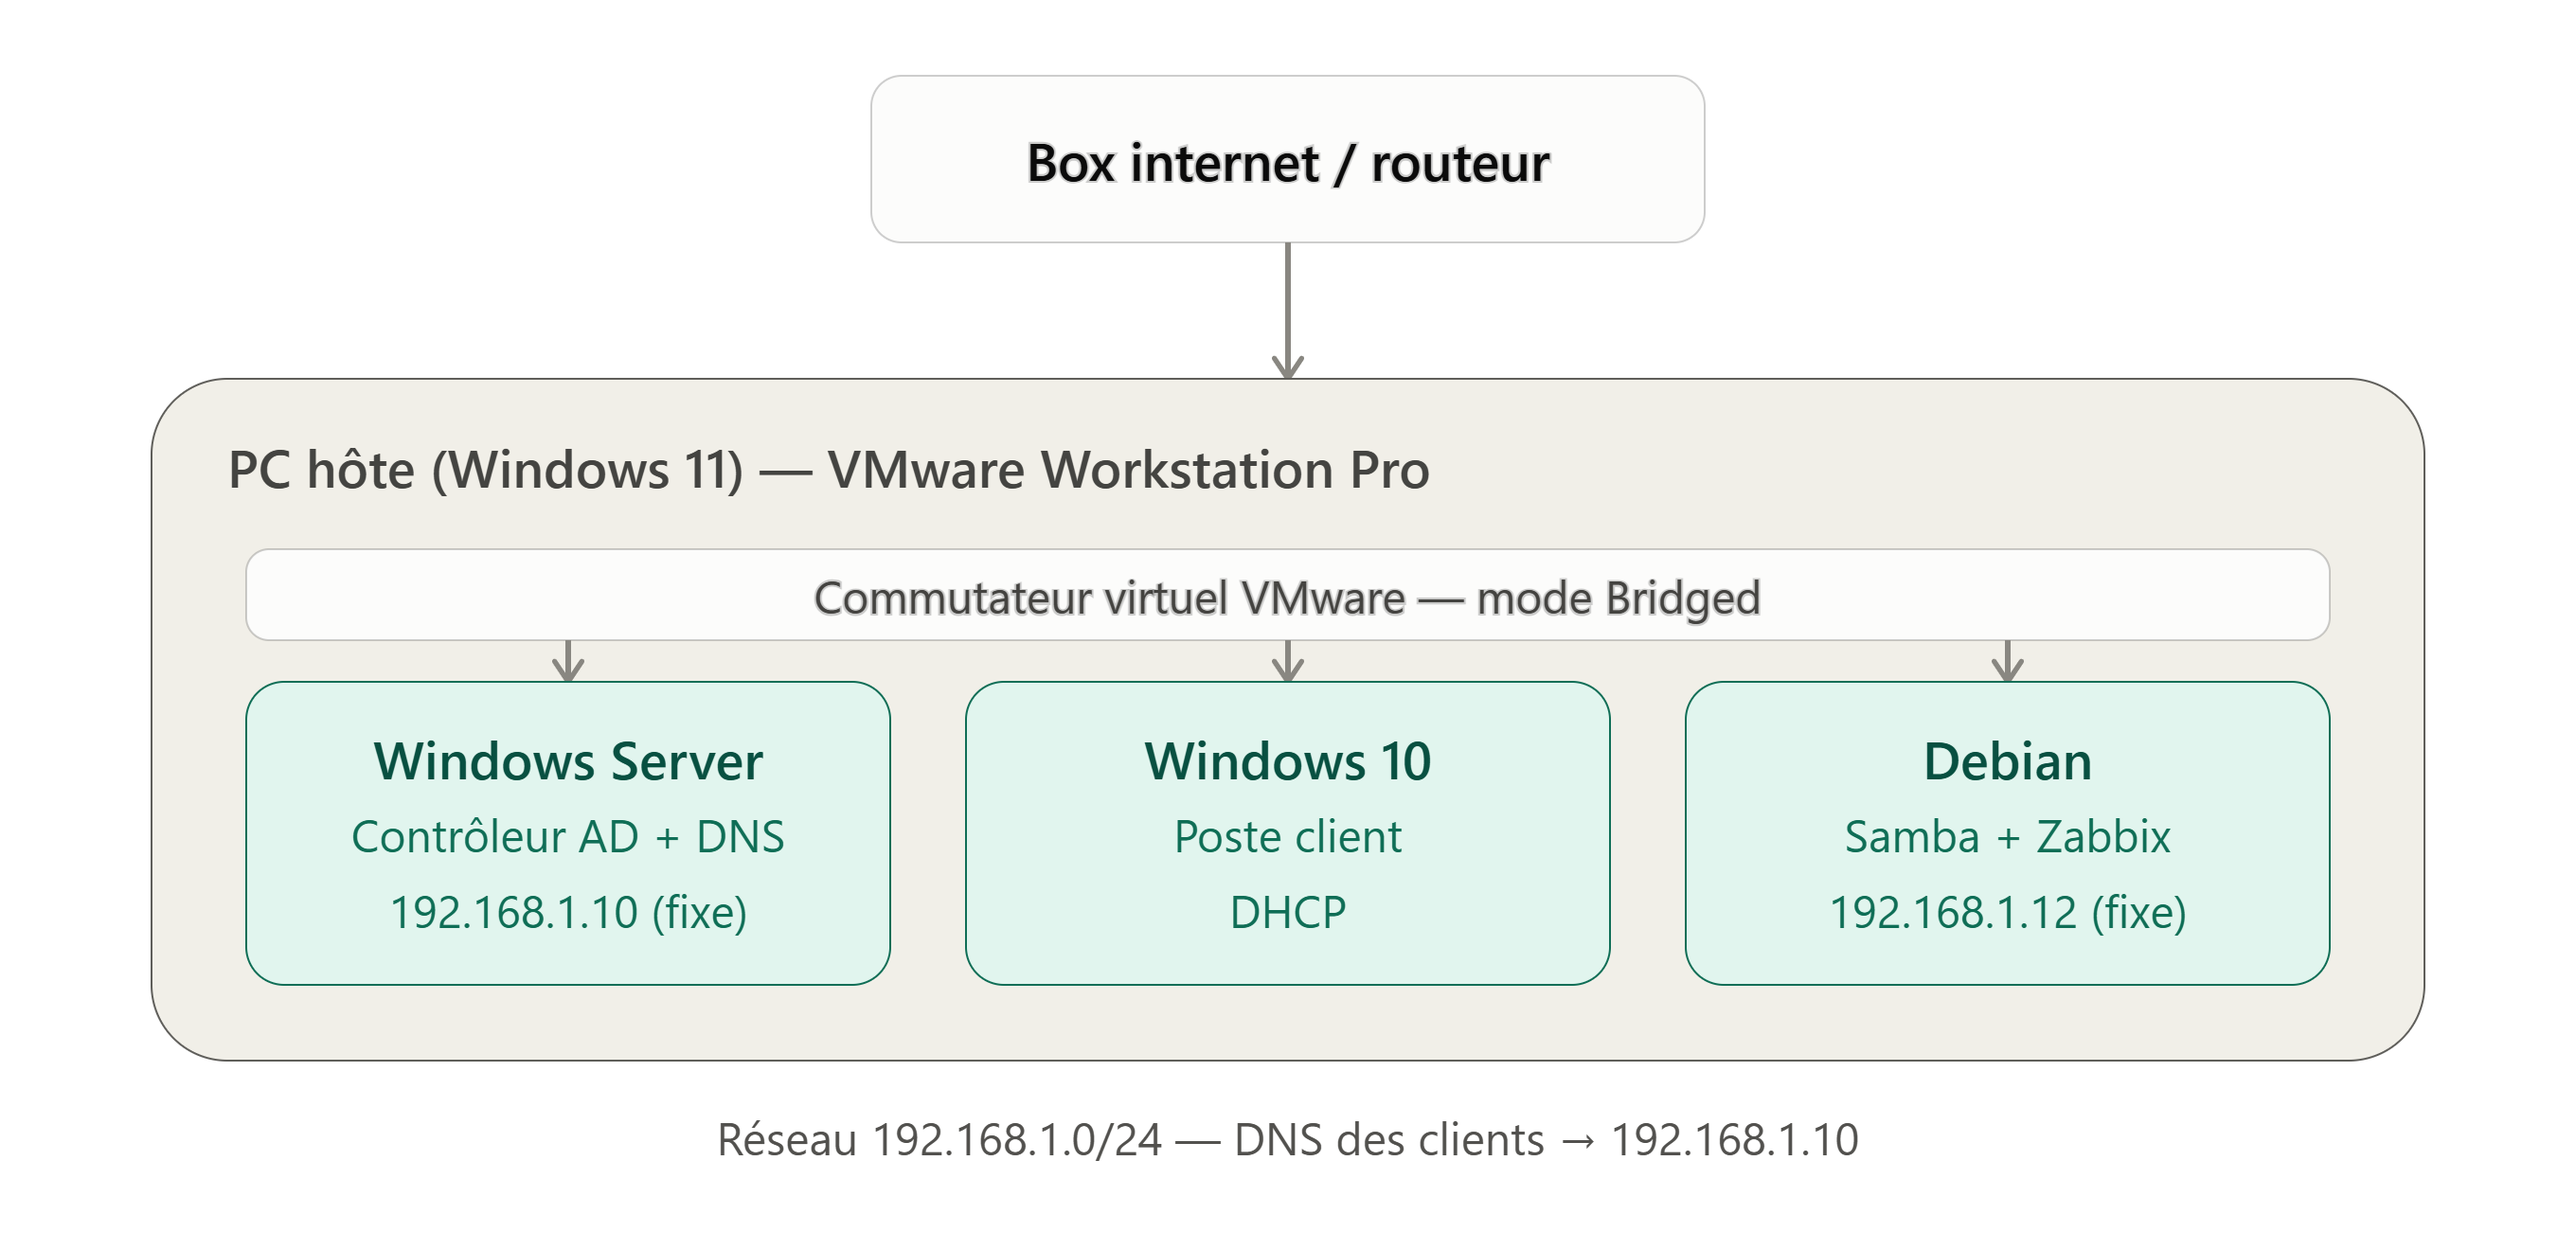
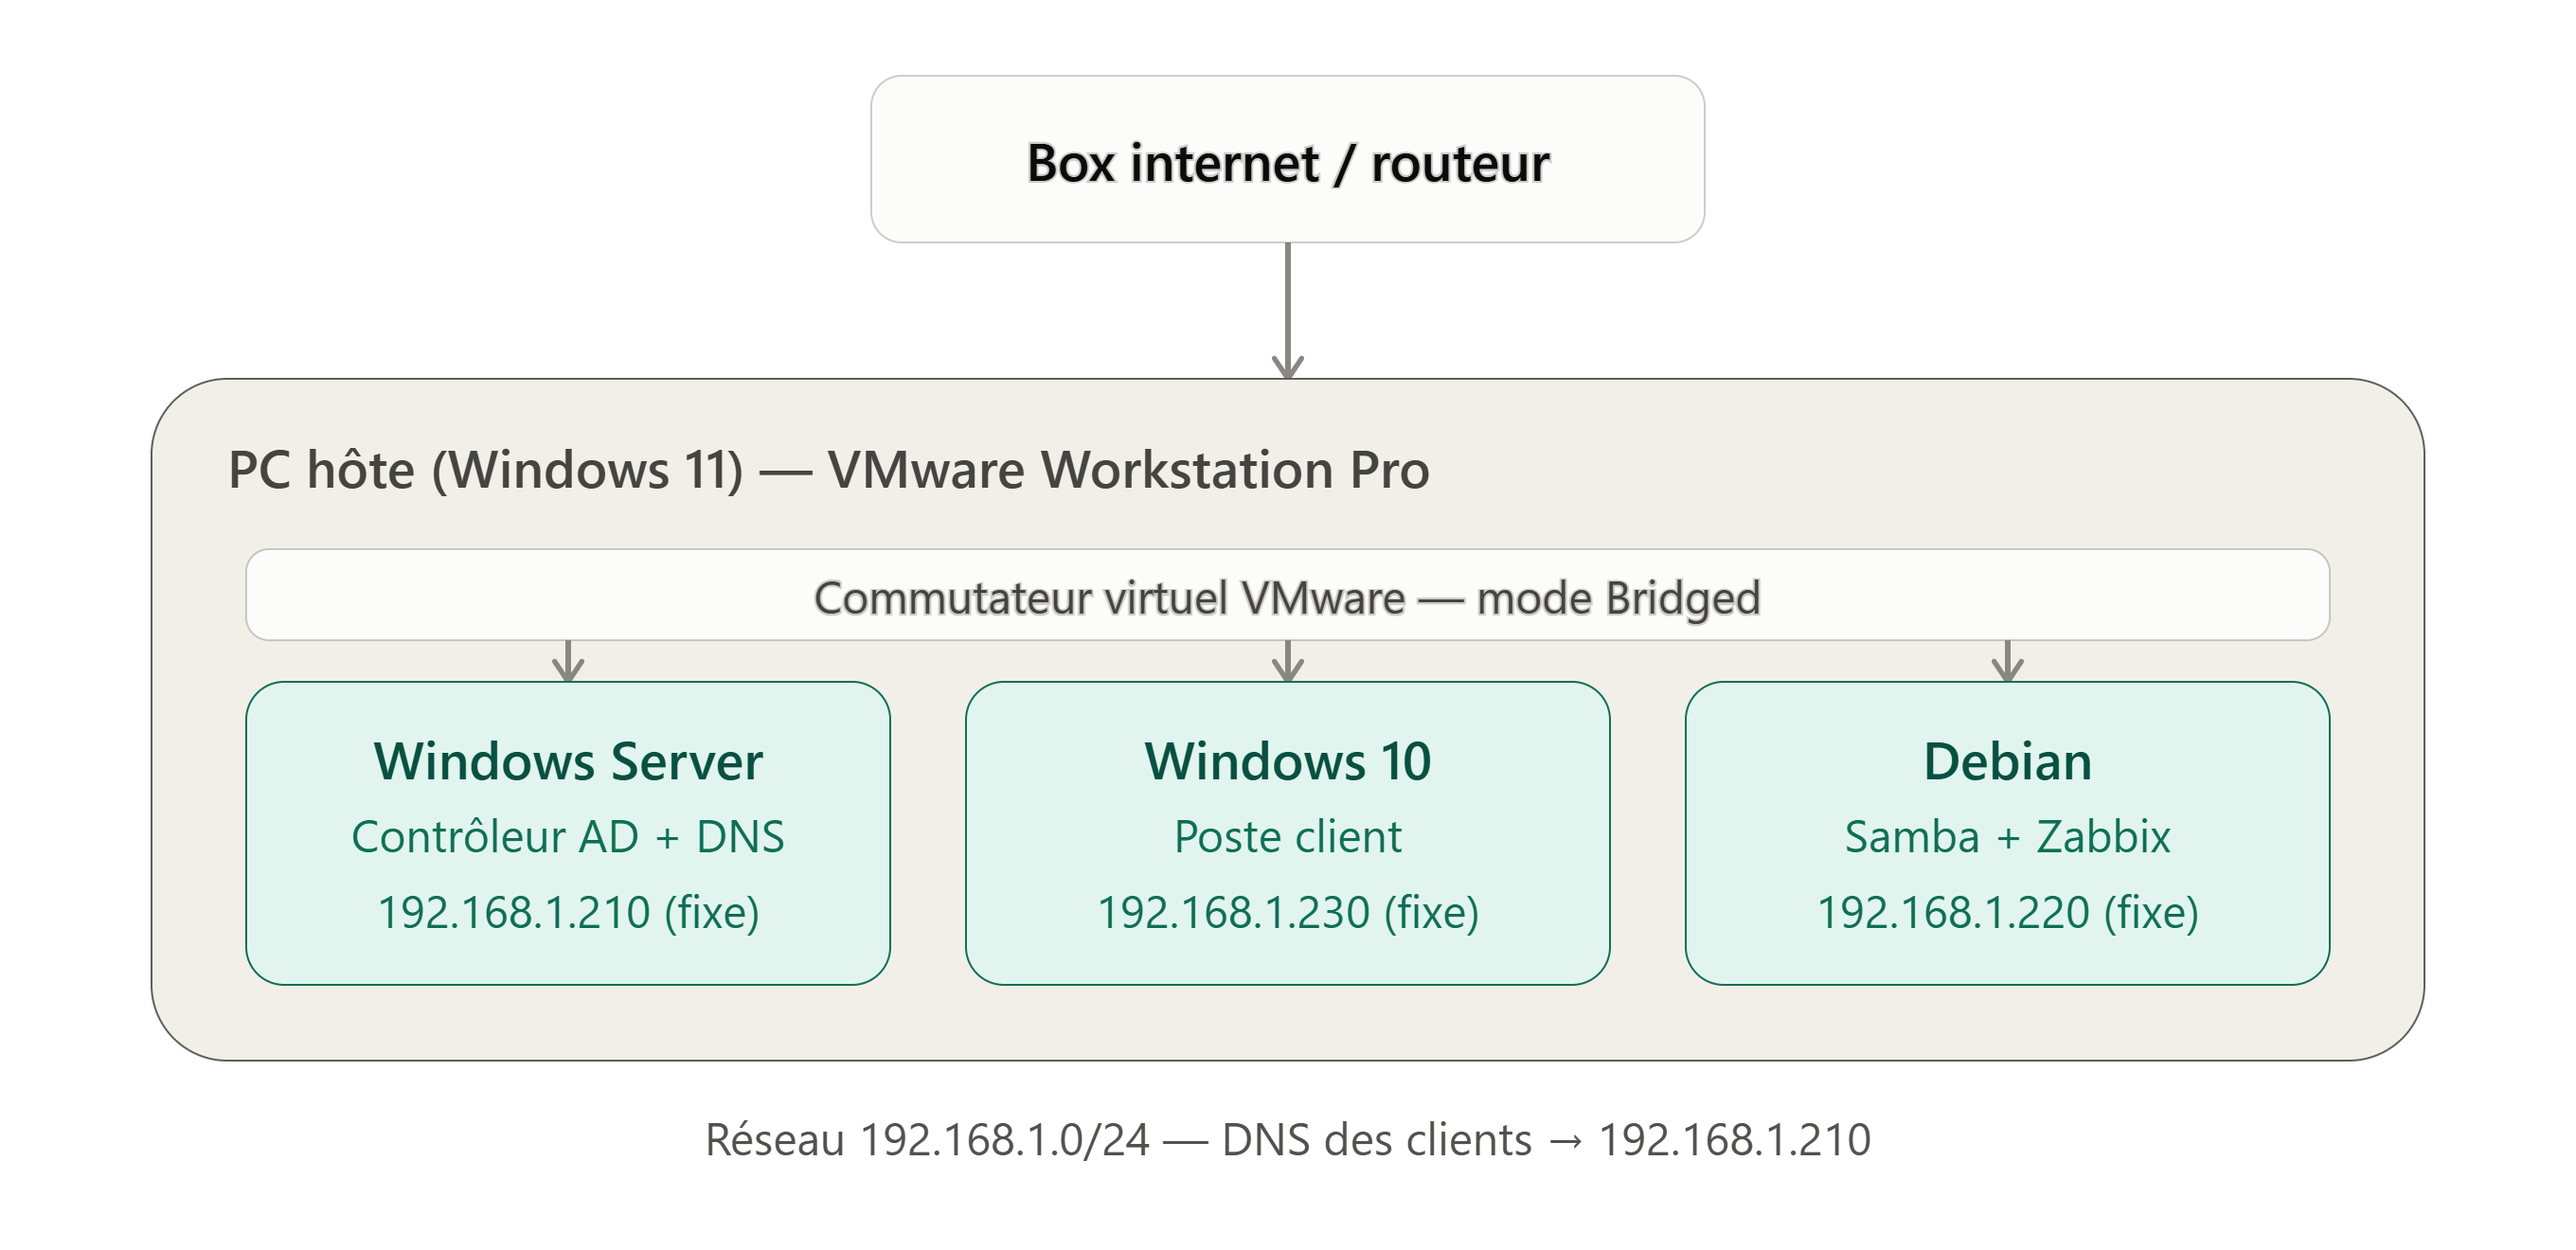
Lab 1.2 terminé (Ajout README + Screenshot + Modification README racine)

diff --git a/lab1-infrastructure/1.2-active-directory/README.md b/lab1-infrastructure/1.2-active-directory/README.md
@@ -1,0 +1,76 @@
+\# Lab 1.2 — Active Directory
+
+&#x20;
+
+\## Objectif
+
+&#x20;
+
+Installer le rôle Active Directory Domain Services (AD DS) sur la VM Windows Server, promouvoir le serveur en contrôleur de domaine (`lab.local`), créer les unités d'organisation (OU) et les utilisateurs correspondant aux services RH, Marketing et Communication, puis joindre le poste client Windows 10 au domaine.
+
+&#x20;
+
+\## Étapes réalisées
+
+&#x20;
+
+1\. Configuration d'une IP fixe sur la VM Windows Server, DNS pointé sur elle-même (127.0.0.1)
+
+2\. Installation du rôle \*\*AD DS\*\* (Active Directory Domain Services) via le Gestionnaire de serveur
+
+3\. Promotion du serveur en contrôleur de domaine, création d'une nouvelle forêt `lab.local`
+
+4\. Création des unités d'organisation (OU) \*\*RH\*\*, \*\*Marketing\*\* et \*\*Communication\*\* dans Utilisateurs et ordinateurs Active Directory
+
+5\. Création d'un groupe de sécurité par OU, puis de plusieurs utilisateurs par service, rattachés à leur groupe correspondant
+
+!\[Screenshot création d'un groupe de sécurité.](../../docs/lab1.2-creation\_groupe\_de\_securite.png)
+
+!\[Schreeshot création utilisateurs.](../../docs/lab1.2-creation\_utilisateurs.png)
+
+6\. Configuration du DNS de la VM Windows 10 vers l'IP du contrôleur de domaine, puis jonction du poste au domaine `lab.local`
+
+!\[Screenshot jonction windows10 au domaine.](../../docs/lab1.2-jonction\_windows10\_au\_domaine.png)
+
+7\. Test de connectivité entre les VM via la commande `ping` (réseau en mode Pont/Bridge)
+
+8\. Test de connexion sur le poste Windows 10 avec un compte de domaine créé précédemment
+
+
+
+\## Difficultés rencontrées
+
+&#x20;
+
+\- \*\*Crash récurrent avec le code erreur WHEA\*\*, dès la première manipulation dans Active Directory — le même type d'erreur que celui rencontré lors de la tentative d'installation de Windows 11 au lab précédent. Après plusieurs heures de recherche et de débogage :
+
+&#x20; - Première piste résolue : configurer le CPU virtuel de façon plus proche de celui du PC hôte. Dans mon cas, passer de 2 processeurs à 1 cœur chacun, à \*\*1 processeur avec 4 cœurs\*\*, a nettement amélioré la stabilité
+
+&#x20; - Cause réelle identifiée : WHEA signalant une erreur matérielle, je me suis penché sur la lecture/écriture mémoire des VM. Mes machines virtuelles étaient configurées avec un \*\*contrôleur de disque virtuel NVMe\*\*, alors qu'elles sont physiquement hébergées sur un \*\*disque dur (HDD)\*\*, et non un SSD NVMe. Une fois le contrôleur de disque corrigé pour correspondre au matériel réel de l'hôte, plus aucun crash ni bug n'est survenu
+
+\- \*\*Décision de conserver Windows 10 plutôt que de retenter Windows 11\*\* : ayant déjà perdu beaucoup de temps sur les précédents blocages (lab 1.1), et Active Directory fonctionnant de manière identique sur les deux systèmes pour ce que je dois démontrer (jonction au domaine, GPO, permissions), retenter Windows 11 n'apportait pas de valeur ajoutée suffisante pour justifier le risque de nouveaux blocages
+
+\- \*\*Ping entre VM sans réponse\*\* ("délai d'attente dépassé") malgré un réseau en mode Pont fonctionnel. Après recherche, découverte que \*\*Windows bloque par défaut les réponses ping\*\* (ICMP) via son pare-feu intégré, indépendamment de la connectivité réseau réelle. Résolu avec la commande PowerShell :
+
+```powershell
+
+&#x20; New-NetFirewallRule -DisplayName "Autoriser Ping" -Direction Inbound -Protocol ICMPv4 -Action Allow
+
+```
+
+&#x20;
+
+\## Ce que j'ai retenu
+
+&#x20;
+
+\- Une erreur WHEA sur une VM peut être causée par une \*\*incohérence entre la configuration virtuelle et le matériel réel de l'hôte\*\* (type de contrôleur de disque, répartition CPU/cœurs) — un point qui n'est pas évident à diagnostiquer puisque l'erreur semble purement logicielle au premier abord
+
+\- Savoir \*\*arbitrer entre s'acharner sur un problème et avancer avec une alternative équivalente\*\* est une vraie compétence : Windows 10 remplissait exactement le même besoin qu'un Windows 11 pour cette étape
+
+\- Un `ping` sans réponse ne signifie pas toujours un problème réseau — cela peut simplement être un pare-feu qui bloque le protocole ICMP par défaut, un comportement standard sur Windows qu'il faut connaître pour ne pas perdre de temps à chercher du côté du réseau physique/virtuel
+
+\- Après la jonction du Windows 10 au domaine, je n'avais plus accès à mon \*\*compte administrateur local\*\* depuis l'écran de connexion (le domaine prenant le pas par défaut). Il n'est pas nécessaire d'ajouter ce compte local dans Active Directory : il suffit de préfixer l'identifiant par `.\\` (ex : `.\\Administrateur`) pour indiquer à Windows de basculer sur l'authentification locale de la machine plutôt que sur le domaine
+
+\- Prochaine étape (lab 1.3) : mise en place des stratégies de groupe (GPO) sur les OU créées
+

diff --git a/README.md b/README.md
@@ -59,6 +59,7 @@ Chaque sous-dossier contient son propre `README.md` détaillant : l'objectif du 
 
 - [x] Lab 0 — Fondamentaux réseau
 - [x] Lab 1.1 — Hyperviseur (Windows Server, Windows 10, Debian installés et snapshotés)
-- [ ] Lab 1.2 à 1.9 — En cours
+- [ ] Lab 1.2 — Active Directory (OU, utilisateurs, jonction de la VM Windows 10 au domaine)
+- [ ] Lab 1.3 à 1.9 — En cours
 - [ ] Lab 2 — Simulation de pannes
 
